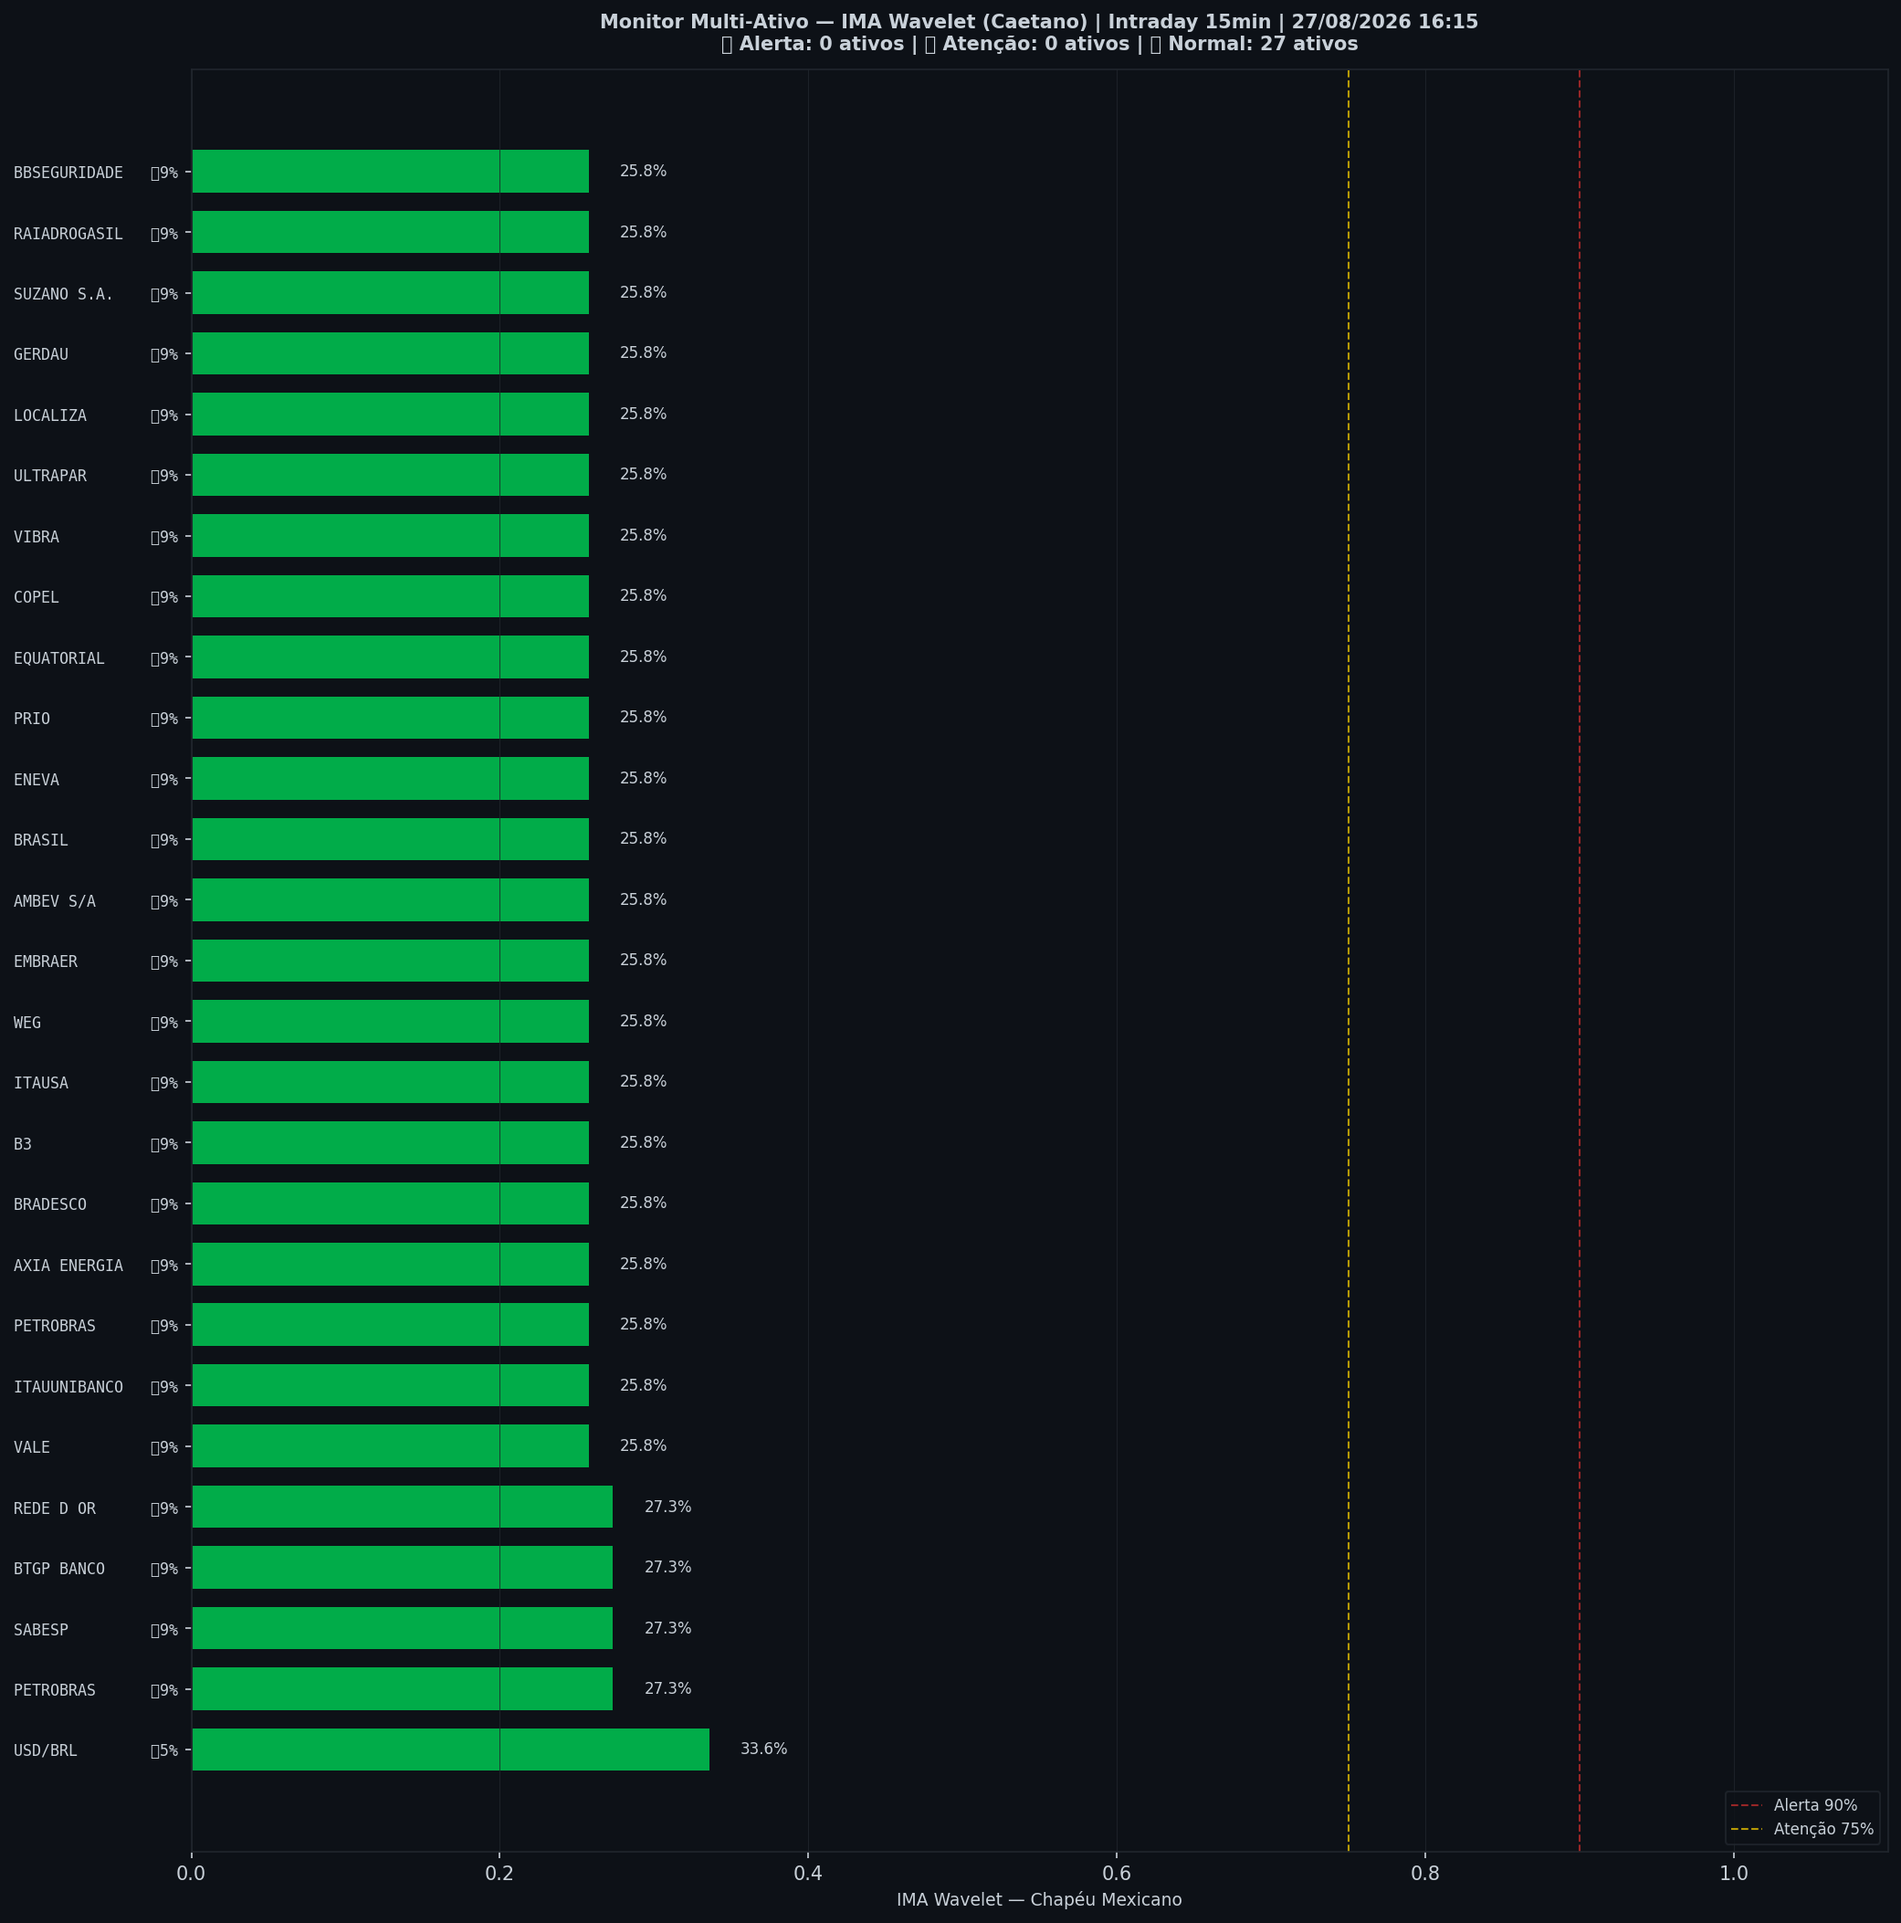
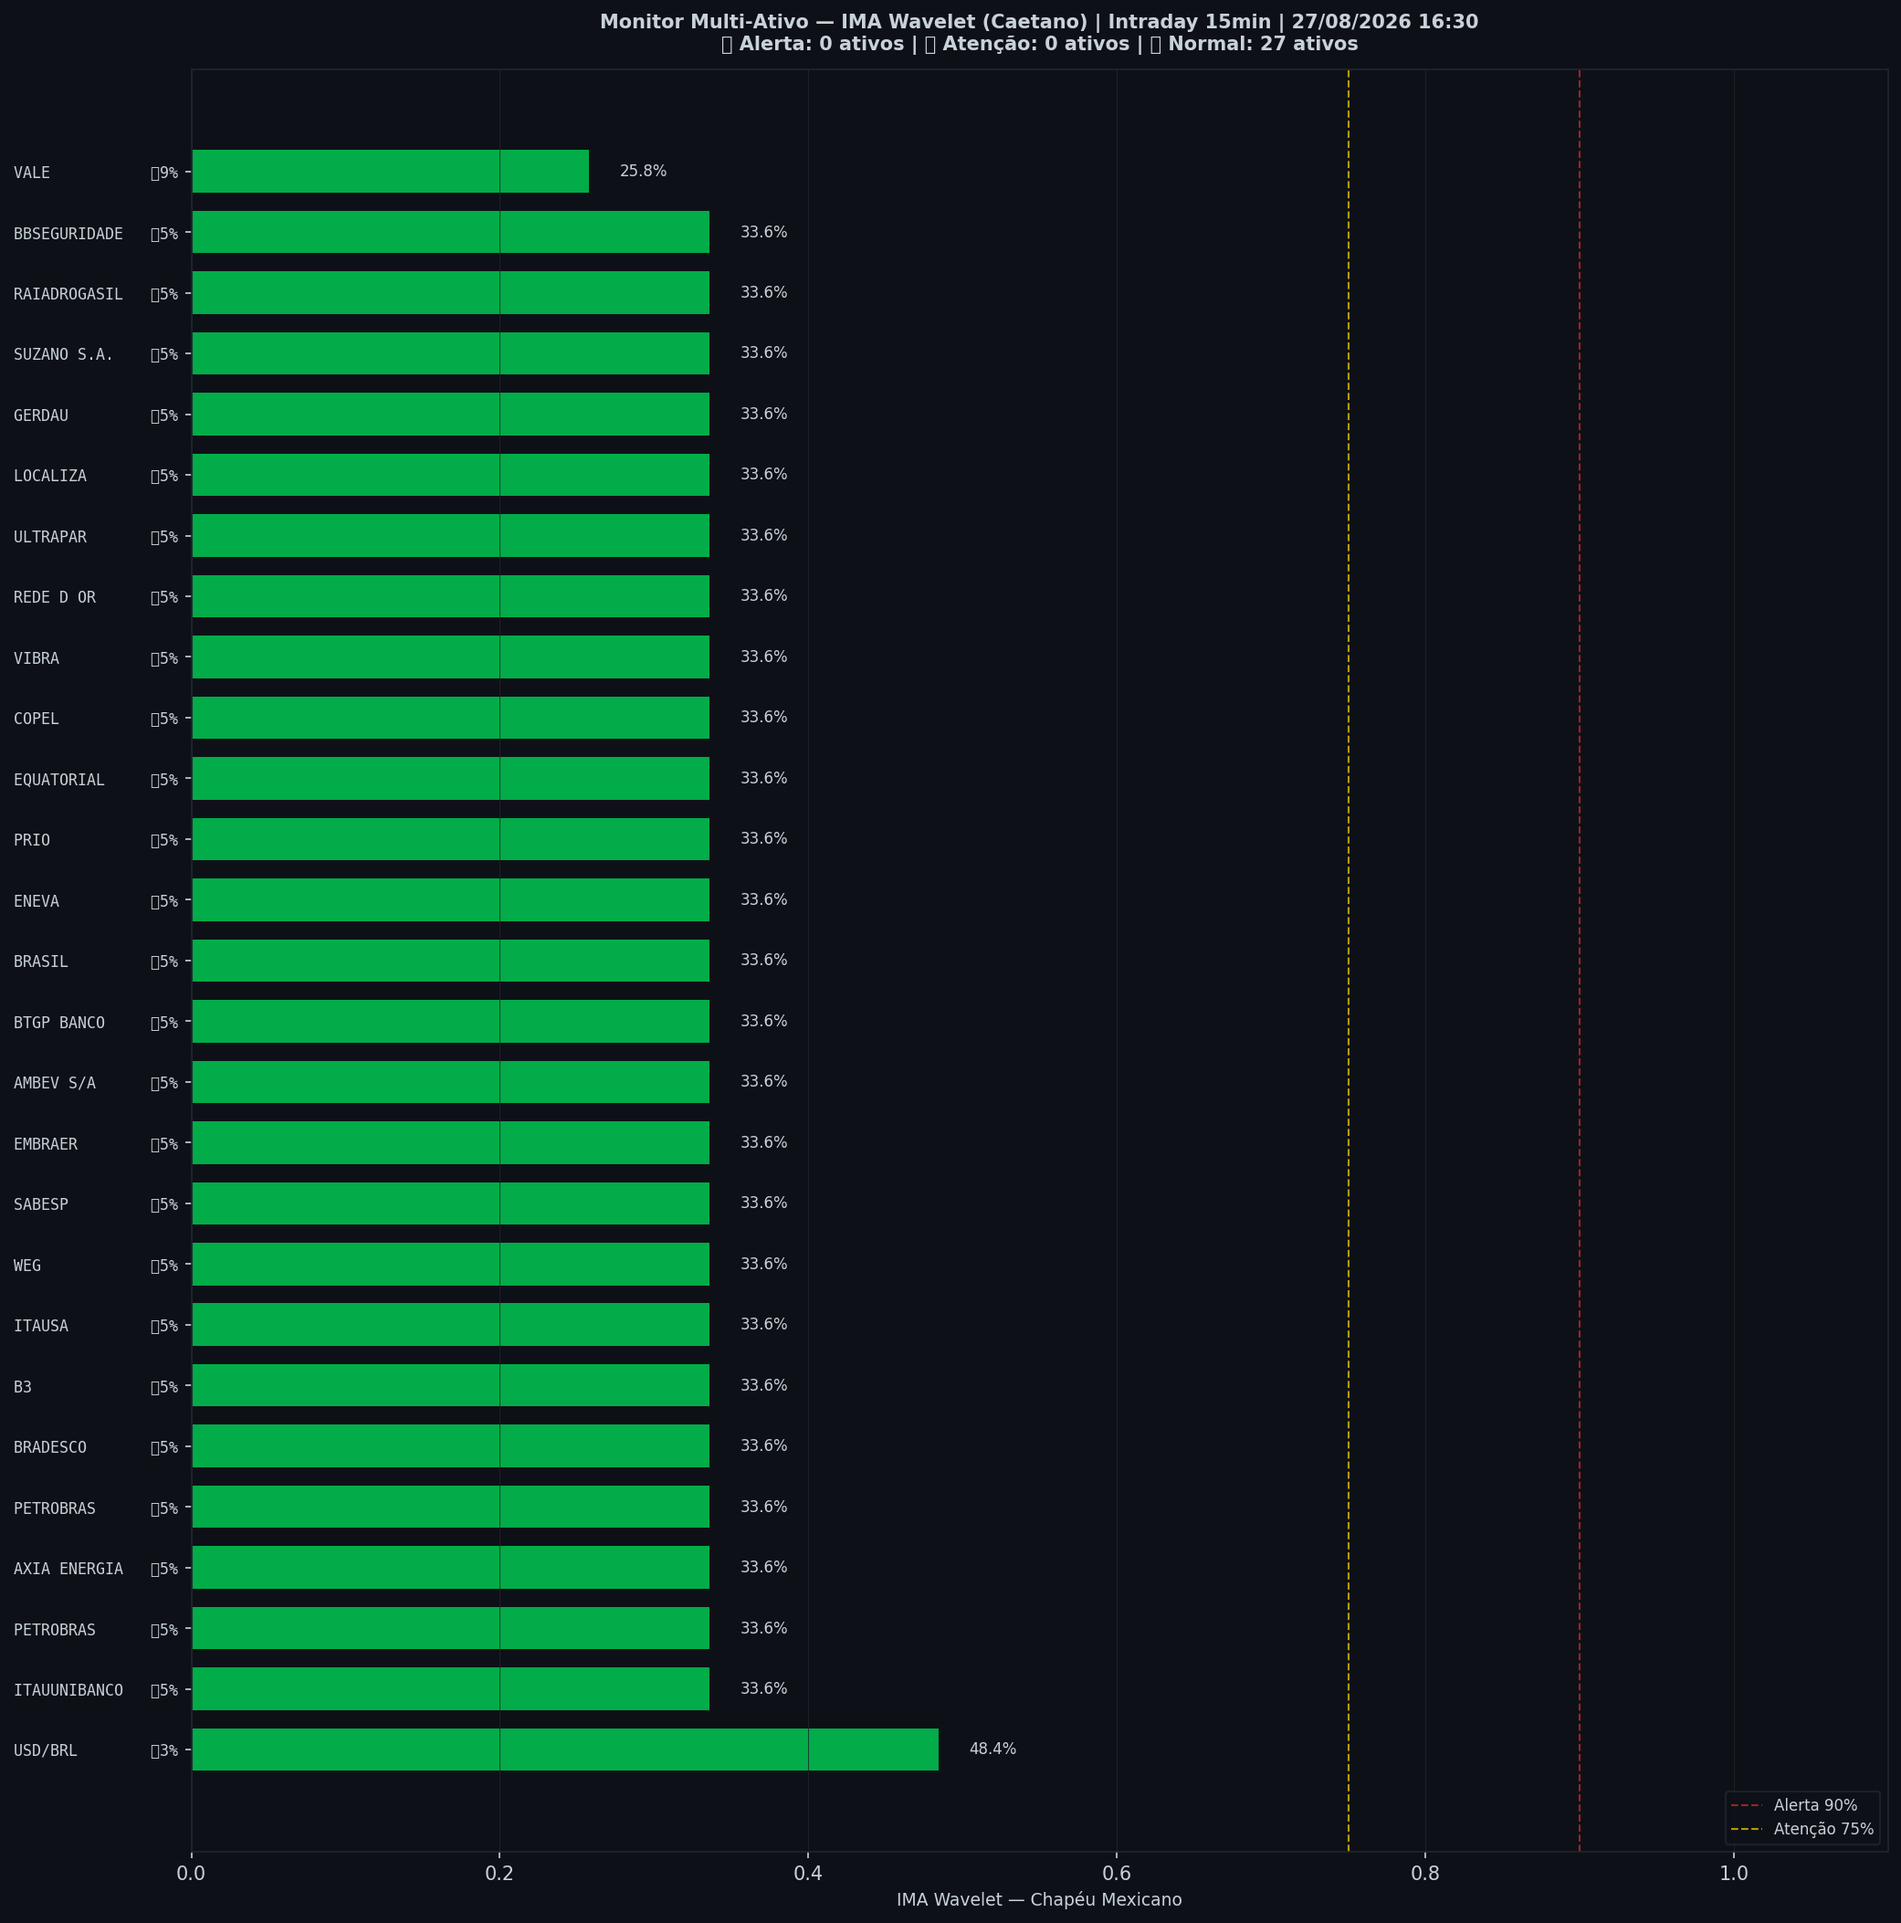
🤖 Auto: Sinal 27/08/2026 16:30

diff --git a/content/intraday/2026-08-27.md b/content/intraday/2026-08-27.md
@@ -1,5 +1,5 @@
 ---
-title: "🟢 Intraday 27/08/2026 15:30 BRT — VERDE"
+title: "🟢 Intraday 27/08/2026 15:45 BRT — VERDE"
 date: 2026-08-27
 tags: [intraday]
 ---
@@ -14,7 +14,7 @@ tags: [intraday]
 | 🔴 ζ Crash — severidade da queda em curso | **0%** |
 | 🔵 ζ Entrada — estrutura de fundo | 0% |
 | 🫧 LPPL DS-Confidence | 0% |
-| 📊 Ibovespa | 175.397 pts |
+| 📊 Ibovespa | 175.378 pts |
 
 ![Gráfico do sinal](../graficos/sinal_intraday.png)
 
@@ -22,6 +22,7 @@ tags: [intraday]
 
 | Data | Zona | Risco | IMA Crash | Entrada | LPPL |
 |---|---|---|---|---|---|
+| 2026-08-27 15:45 | 🟢 VERDE | **0%** | 0% | 0% | 0% |
 | 2026-08-27 15:30 | 🟢 VERDE | **0%** | 0% | 0% | 0% |
 | 2026-08-27 15:15 | 🟢 VERDE | **0%** | 0% | 0% | 0% |
 | 2026-08-27 15:00 | 🟢 VERDE | **0%** | 0% | 0% | 0% |
@@ -51,7 +52,6 @@ tags: [intraday]
 | 2026-08-26 16:00 | 🟢 VERDE | **0%** | 0% | 13% | 0% |
 | 2026-08-26 15:45 | 🟢 VERDE | **0%** | 0% | 12% | 0% |
 | 2026-08-26 15:30 | 🟢 VERDE | **0%** | 0% | 7% | 0% |
-| 2026-08-26 15:15 | 🟢 VERDE | **0%** | 0% | 4% | 0% |
 
 ## Monitor Multi-Ativo
 
@@ -59,37 +59,37 @@ tags: [intraday]
 
 | Zona | Ativo | Setor | IMA Crash | IMA Entrada |
 |---|---|---|---|---|
-| 🟢 | **USD/BRL** | Câmbio | 33.6% | 4.7% |
-| 🟢 | **PETROBRAS** | Petróleo | 27.3% | 8.6% |
-| 🟢 | **SABESP** | Saneamento | 27.3% | 8.6% |
-| 🟢 | **BTGP BANCO** | Financeiro | 27.3% | 8.6% |
-| 🟢 | **REDE D OR** | Saúde | 27.3% | 8.6% |
+| 🟢 | **USD/BRL** | Câmbio | 48.4% | 3.1% |
+| 🟢 | **ITAUUNIBANCO** | Financeiro | 33.6% | 4.7% |
+| 🟢 | **PETROBRAS** | Petróleo | 33.6% | 4.7% |
+| 🟢 | **AXIA ENERGIA** | Energia | 33.6% | 4.7% |
+| 🟢 | **PETROBRAS** | Petróleo | 33.6% | 4.7% |
+| 🟢 | **BRADESCO** | Financeiro | 33.6% | 4.7% |
+| 🟢 | **B3** | Financeiro | 33.6% | 4.7% |
+| 🟢 | **ITAUSA** | Financeiro | 33.6% | 4.7% |
+| 🟢 | **WEG** | Industrial | 33.6% | 4.7% |
+| 🟢 | **SABESP** | Saneamento | 33.6% | 4.7% |
+| 🟢 | **EMBRAER** | Outros | 33.6% | 4.7% |
+| 🟢 | **AMBEV S/A** | Consumo | 33.6% | 4.7% |
+| 🟢 | **BTGP BANCO** | Financeiro | 33.6% | 4.7% |
+| 🟢 | **BRASIL** | Financeiro | 33.6% | 4.7% |
+| 🟢 | **ENEVA** | Energia | 33.6% | 4.7% |
+| 🟢 | **PRIO** | Petróleo | 33.6% | 4.7% |
+| 🟢 | **EQUATORIAL** | Energia | 33.6% | 4.7% |
+| 🟢 | **COPEL** | Energia | 33.6% | 4.7% |
+| 🟢 | **VIBRA** | Energia | 33.6% | 4.7% |
+| 🟢 | **REDE D OR** | Saúde | 33.6% | 4.7% |
+| 🟢 | **ULTRAPAR** | Outros | 33.6% | 4.7% |
+| 🟢 | **LOCALIZA** | Aluguel | 33.6% | 4.7% |
+| 🟢 | **GERDAU** | Siderurgia | 33.6% | 4.7% |
+| 🟢 | **SUZANO S.A.** | Papel/Celulose | 33.6% | 4.7% |
+| 🟢 | **RAIADROGASIL** | Outros | 33.6% | 4.7% |
+| 🟢 | **BBSEGURIDADE** | Financeiro | 33.6% | 4.7% |
 | 🟢 | **VALE** | Mineração | 25.8% | 8.6% |
-| 🟢 | **ITAUUNIBANCO** | Financeiro | 25.8% | 8.6% |
-| 🟢 | **PETROBRAS** | Petróleo | 25.8% | 8.6% |
-| 🟢 | **AXIA ENERGIA** | Energia | 25.8% | 8.6% |
-| 🟢 | **BRADESCO** | Financeiro | 25.8% | 8.6% |
-| 🟢 | **B3** | Financeiro | 25.8% | 8.6% |
-| 🟢 | **ITAUSA** | Financeiro | 25.8% | 8.6% |
-| 🟢 | **WEG** | Industrial | 25.8% | 8.6% |
-| 🟢 | **EMBRAER** | Outros | 25.8% | 8.6% |
-| 🟢 | **AMBEV S/A** | Consumo | 25.8% | 8.6% |
-| 🟢 | **BRASIL** | Financeiro | 25.8% | 8.6% |
-| 🟢 | **ENEVA** | Energia | 25.8% | 8.6% |
-| 🟢 | **PRIO** | Petróleo | 25.8% | 8.6% |
-| 🟢 | **EQUATORIAL** | Energia | 25.8% | 8.6% |
-| 🟢 | **COPEL** | Energia | 25.8% | 8.6% |
-| 🟢 | **VIBRA** | Energia | 25.8% | 8.6% |
-| 🟢 | **ULTRAPAR** | Outros | 25.8% | 8.6% |
-| 🟢 | **LOCALIZA** | Aluguel | 25.8% | 8.6% |
-| 🟢 | **GERDAU** | Siderurgia | 25.8% | 8.6% |
-| 🟢 | **SUZANO S.A.** | Papel/Celulose | 25.8% | 8.6% |
-| 🟢 | **RAIADROGASIL** | Outros | 25.8% | 8.6% |
-| 🟢 | **BBSEGURIDADE** | Financeiro | 25.8% | 8.6% |
 
 ![Monitor multi-ativo](../graficos/multi_intraday.png)
 
-*Página atualizada em 27/08/2026 16:15 BRT (leitura da barra de 2026-08-27 15:30 BRT).*
+*Página atualizada em 27/08/2026 16:30 BRT (leitura da barra de 2026-08-27 15:45 BRT).*
 
 > [!info]- Como interpretar (clique para expandir)
 > - **ζ Crash**: fração dos coeficientes wavelet acima do corte (Caetano & Yoneyama 2009). Escala absoluta: ζ=0,90 = 90% dos coeficientes anômalos — historicamente, quedas com ζ≥0,90 foram mais fundas e mais longas. **Mede a severidade do movimento em curso, não prevê o início da queda.**

diff --git a/content/index.md b/content/index.md
@@ -8,7 +8,7 @@ tags: [home]
 
 Monitoramento diário e intraday do Ibovespa — **IMA Wavelet** (Prof. Marco Antonio Leonel Caetano, ITA/INSPER) + **LPPL DS-Confidence** (Prof. Didier Sornette, ETH-Zurich).
 
-*Última atualização: 27/08/2026 16:15 BRT · ^BVSP · Intraday 15min · v4*
+*Última atualização: 27/08/2026 16:30 BRT · ^BVSP · Intraday 15min · v4*
 
 > [!success] 🟢 **VERDE** — Risco 0% · ＝ +0 p.p. vs leitura anterior
 > `░░░░░░░░░░░░░░░░░░░░`
@@ -20,7 +20,7 @@ Monitoramento diário e intraday do Ibovespa — **IMA Wavelet** (Prof. Marco An
 | 🔴 ζ Crash — severidade da queda em curso | **0%** |
 | 🔵 ζ Entrada — estrutura de fundo | 0% |
 | 🫧 LPPL DS-Confidence | 0% |
-| 📊 Ibovespa | 175.397 pts |
+| 📊 Ibovespa | 175.378 pts |
 
 **Multi-ativo:** 0% em tensão (0🔴 0🟡 de 27 ativos)
 

diff --git a/content/historico.md b/content/historico.md
@@ -7,6 +7,7 @@ tags: [historico]
 
 | Data | Modo | Zona | Risco | IMA | LPPL |
 |---|---|---|---|---|---|
+| 2026-08-27 15:45 | intraday | 🟢 VERDE | 0% | 0% | 0% |
 | 2026-08-27 15:30 | intraday | 🟢 VERDE | 0% | 0% | 0% |
 | 2026-08-27 15:15 | intraday | 🟢 VERDE | 0% | 0% | 0% |
 | 2026-08-27 15:00 | intraday | 🟢 VERDE | 0% | 0% | 0% |
